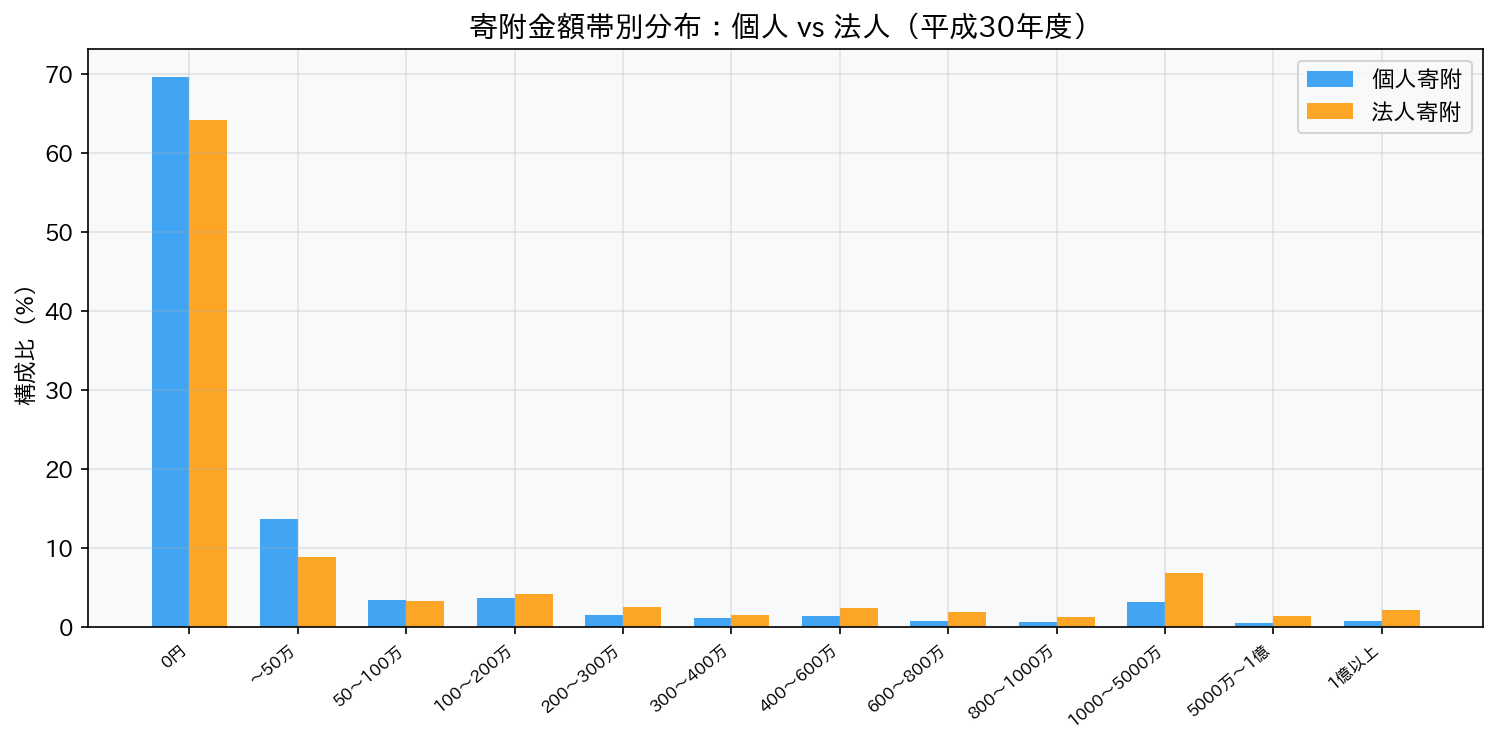
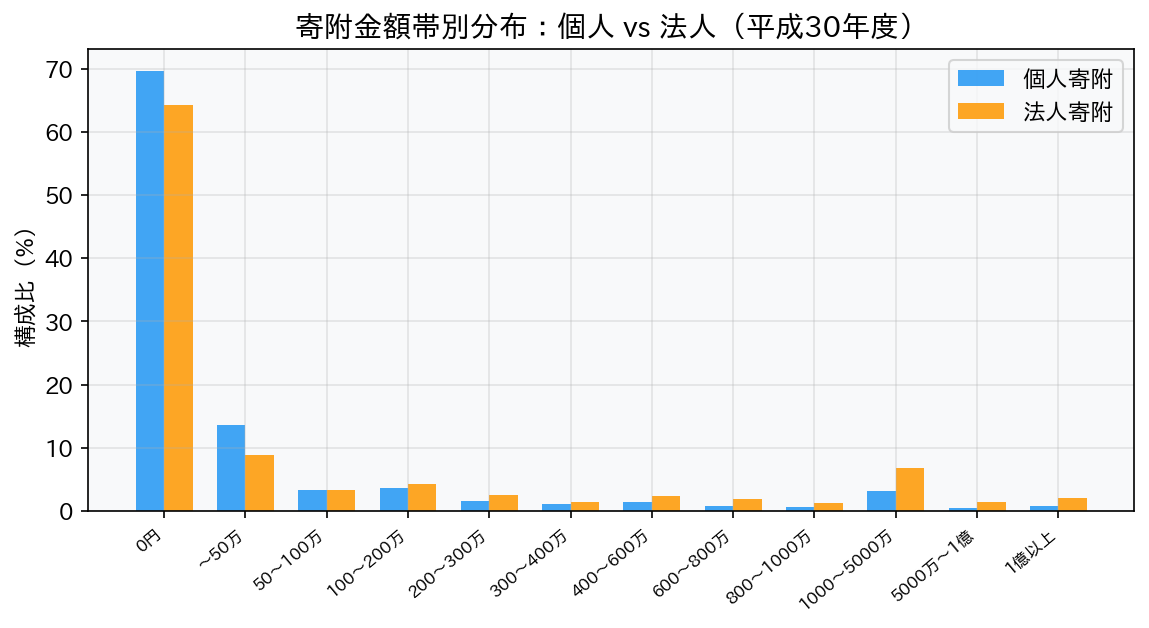
Fix chart sizes and modal background for readability
- Reduce matplotlib figsize for all 12 charts (smaller images)
- Constrain chart images to max-height 420px in CSS
- Add white background plugin for Chart.js canvas exports
- Reduce Chart.js canvas heights (220-240px)
- Lighten modal backdrop for better visibility

diff --git a/data06/レポート/html_report/script.js b/data06/レポート/html_report/script.js
@@ -41,6 +41,18 @@ Chart.defaults.font.family = "'Noto Sans JP', sans-serif";
 Chart.defaults.font.size = 13;
 Chart.defaults.color = '#333';
 
+/* ========== White Background Plugin (for modal export) ========== */
+const whiteBgPlugin = {
+  id: 'whiteBg',
+  beforeDraw(chart) {
+    const { ctx, width, height } = chart;
+    ctx.save();
+    ctx.fillStyle = '#ffffff';
+    ctx.fillRect(0, 0, width, height);
+    ctx.restore();
+  }
+};
+
 /* ========== Value Label Plugin ========== */
 const valueLabelPlugin = {
   id: 'valueLabel',
@@ -92,7 +104,7 @@ function createCharts() {
         y: { min: 50, max: 62, ticks: { callback: v => v + '%' } }
       }
     },
-    plugins: [valueLabelPlugin]
+    plugins: [valueLabelPlugin, whiteBgPlugin]
   });
 
   // 2. 寄附金収入総額推移
@@ -125,7 +137,8 @@ function createCharts() {
         y: { stacked: true, beginAtZero: true, title: { display: true, text: '十億円' } },
         x: { stacked: true }
       }
-    }
+    },
+    plugins: [whiteBgPlugin]
   });
 
   // 3. 税額控除効果比較
@@ -161,7 +174,7 @@ function createCharts() {
         y: { beginAtZero: true, ticks: { callback: v => '+' + v + '%' } }
       }
     },
-    plugins: [valueLabelPlugin]
+    plugins: [valueLabelPlugin, whiteBgPlugin]
   });
 
   // 4. 寄附金使途比較
@@ -192,7 +205,8 @@ function createCharts() {
       scales: {
         x: { beginAtZero: true, ticks: { callback: v => v + '%' } }
       }
-    }
+    },
+    plugins: [whiteBgPlugin]
   });
 }
 

diff --git a/data06/レポート/html_report/index.html b/data06/レポート/html_report/index.html
@@ -113,7 +113,7 @@
     <!-- Chart.js: 0円法人割合の推移 -->
     <h3>2.3 寄附金0円法人割合の推移</h3>
     <div class="chartjs-canvas-wrap">
-      <canvas id="chartZeroTrend" height="300"></canvas>
+      <canvas id="chartZeroTrend" height="220"></canvas>
     </div>
   </section>
 
@@ -152,7 +152,7 @@
 
     <!-- Chart.js: 寄附金収入総額推移 -->
     <div class="chartjs-canvas-wrap">
-      <canvas id="chartTotalTrend" height="320"></canvas>
+      <canvas id="chartTotalTrend" height="240"></canvas>
     </div>
   </section>
 
@@ -193,7 +193,7 @@
 
     <!-- Chart.js: 税額控除効果比較 -->
     <div class="chartjs-canvas-wrap">
-      <canvas id="chartTaxEffect" height="320"></canvas>
+      <canvas id="chartTaxEffect" height="240"></canvas>
     </div>
 
     <h3>4.3 税額控除対象法人の状況</h3>
@@ -284,7 +284,7 @@
 
     <!-- Chart.js: 使途比較 -->
     <div class="chartjs-canvas-wrap">
-      <canvas id="chartUsage" height="320"></canvas>
+      <canvas id="chartUsage" height="240"></canvas>
     </div>
   </section>
 

diff --git a/data06/レポート/html_report/style.css b/data06/レポート/html_report/style.css
@@ -137,6 +137,8 @@ body {
 }
 .chart-img-wrap img {
   max-width: 100%;
+  max-height: 420px;
+  width: auto;
   border-radius: 8px;
   box-shadow: 0 2px 8px rgba(0,0,0,0.1);
   cursor: zoom-in;
@@ -146,6 +148,7 @@ body {
 .chartjs-canvas-wrap {
   position: relative;
   margin: 20px 0;
+  max-width: 700px;
   cursor: zoom-in;
 }
 .chartjs-canvas-wrap canvas { max-width: 100%; }
@@ -206,7 +209,7 @@ body {
 .chart-modal-backdrop {
   position: absolute;
   inset: 0;
-  background: rgba(0,0,0,0.75);
+  background: rgba(0,0,0,0.55);
 }
 .chart-modal-content {
   position: relative;
